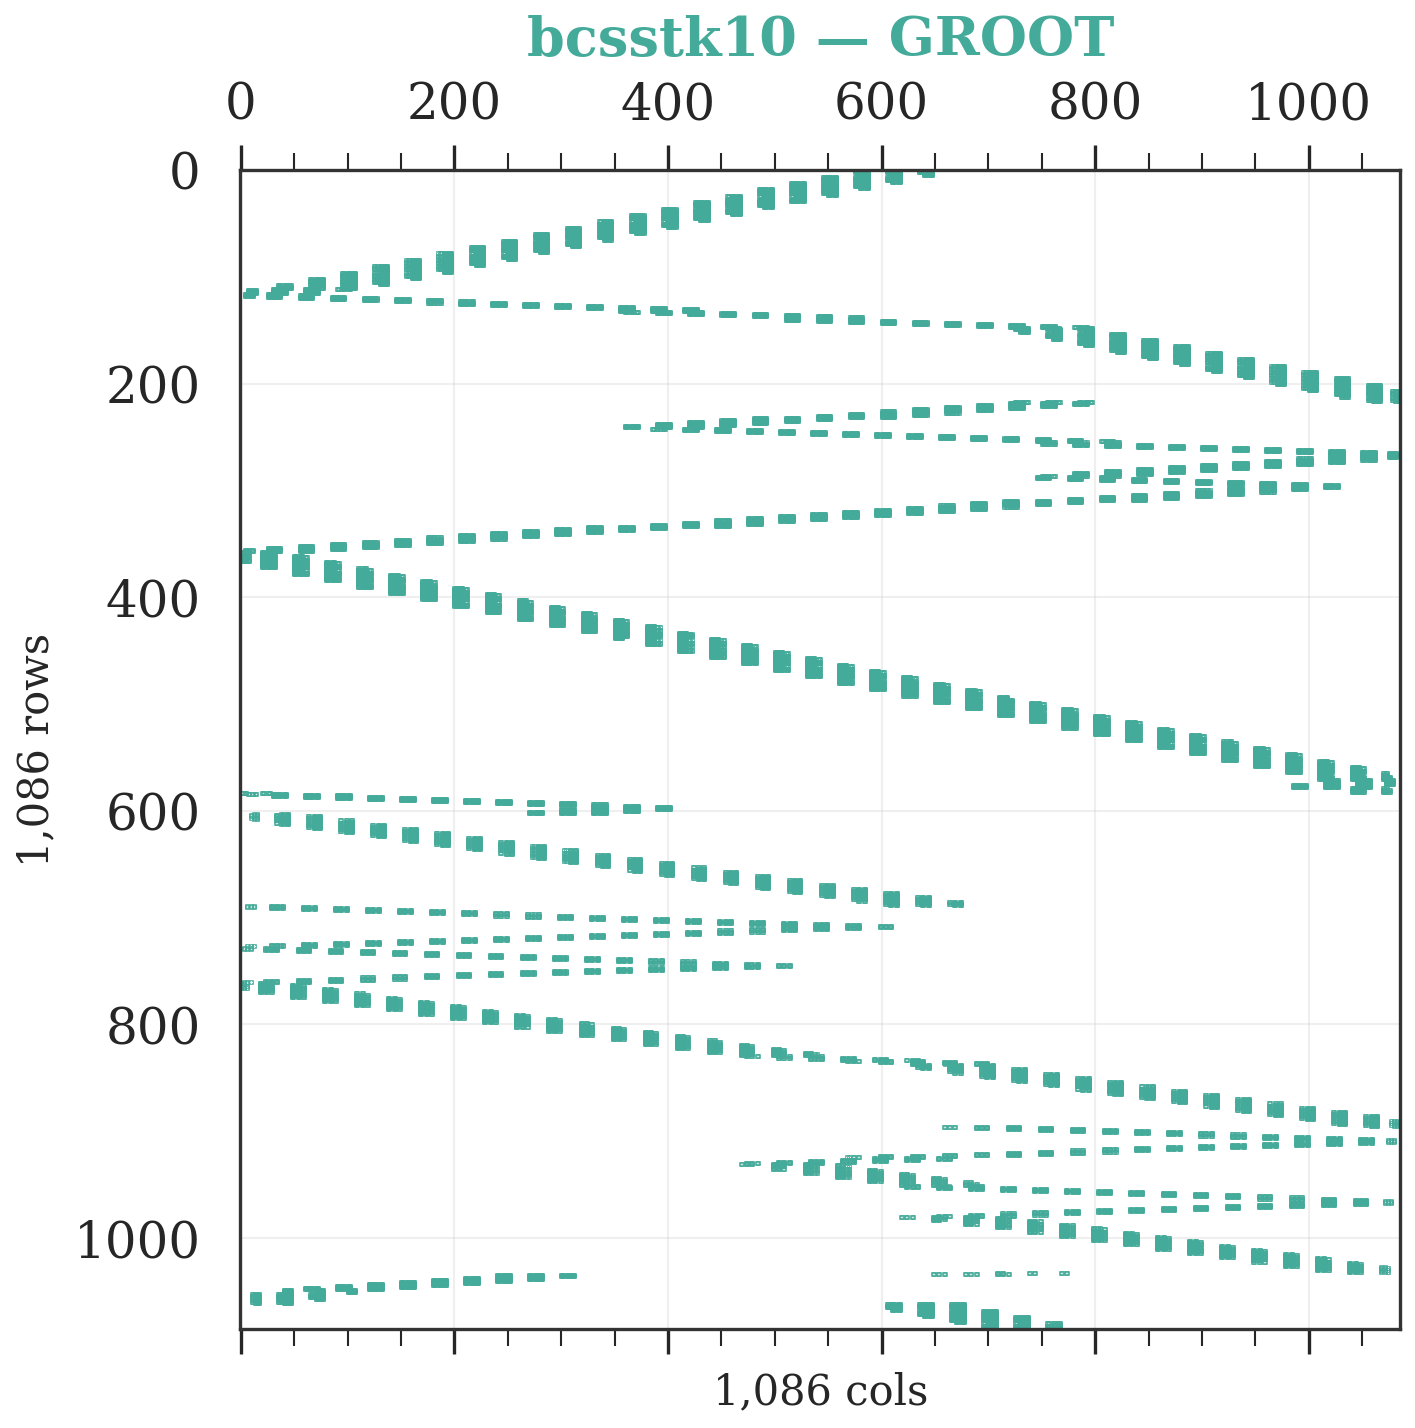
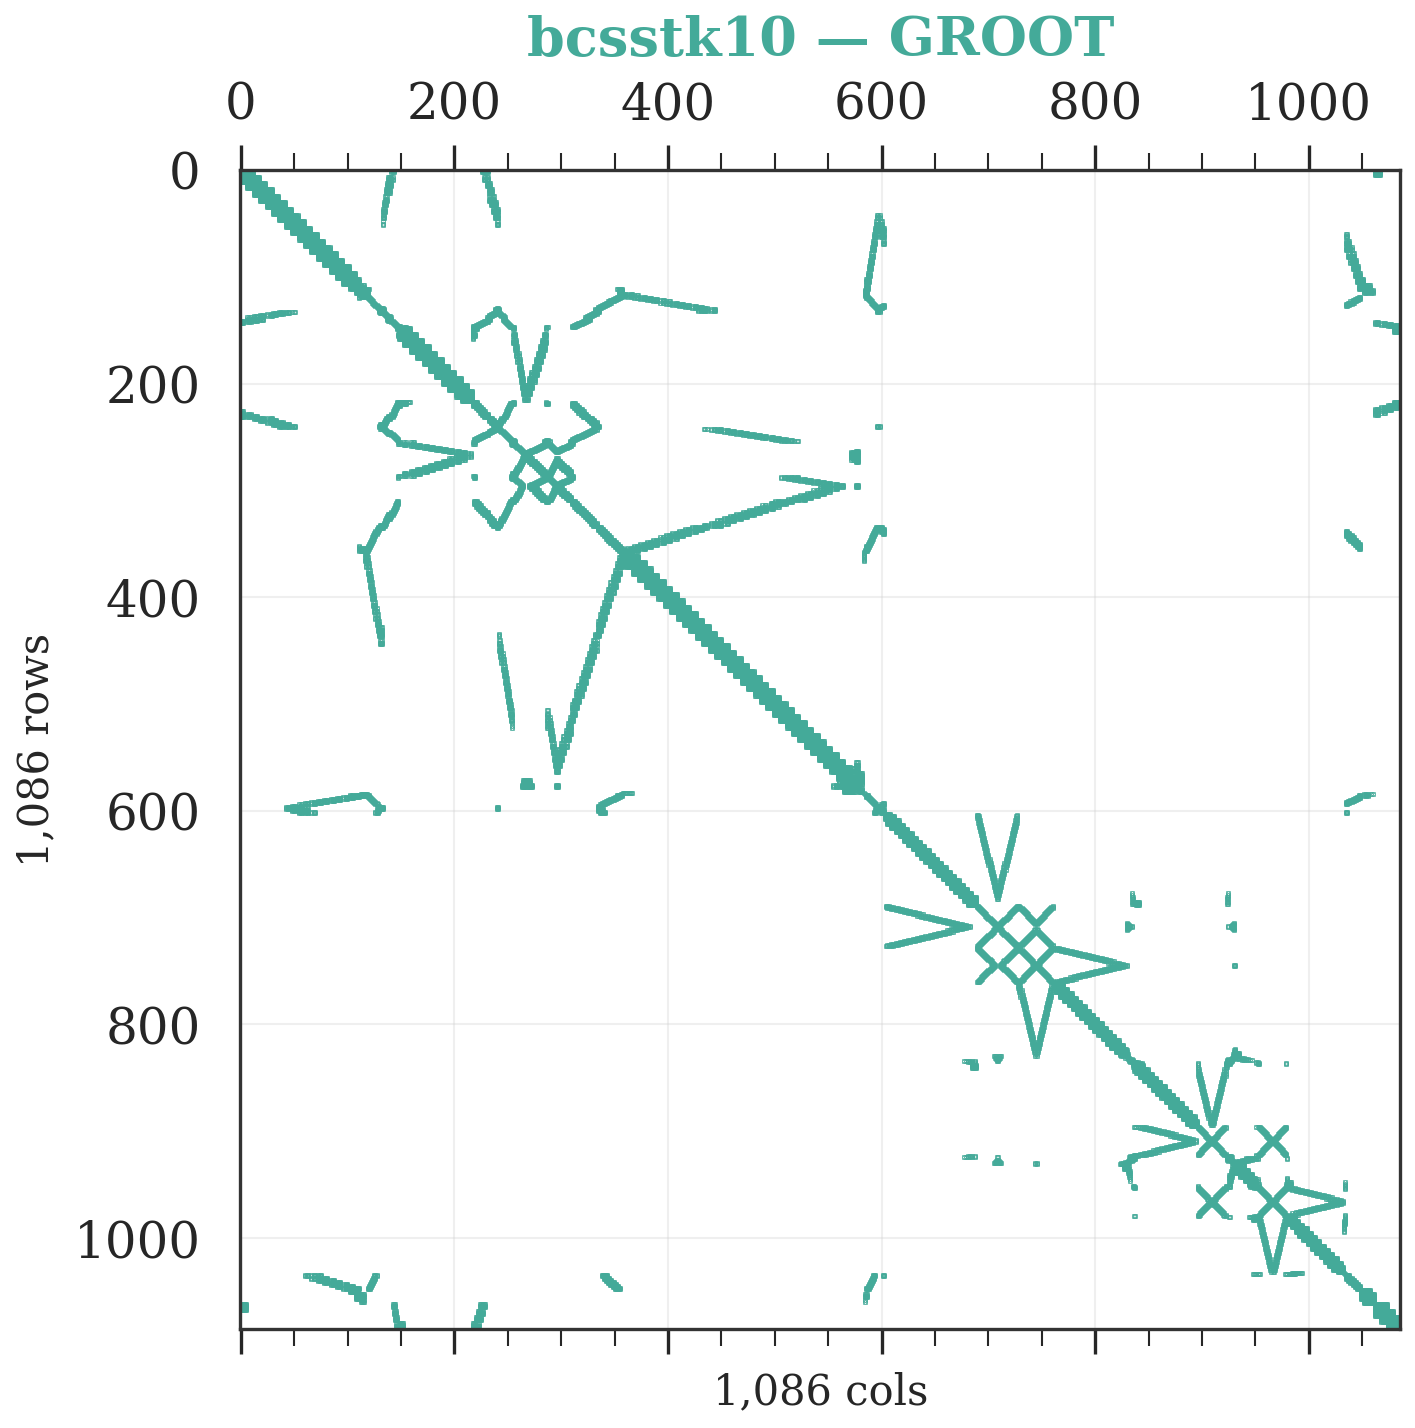
Add graham1 quick spy plots, fix SYMMETRIC perm_type preference
Both spy_plots.py and quick_spy.py now prefer SYMMETRIC when both ROW
and SYMMETRIC entries exist in the analysis CSV for the same pair.

diff --git a/scripts/spy_plots.py b/scripts/spy_plots.py
@@ -178,11 +178,18 @@ def find_permutation_file(perm_dir, matrix_name, algorithm):
 
 
 def get_perm_type_for_algorithm(algorithm, analysis_df, matrix_name):
-    """Get the permutation type for a given algorithm from analysis data."""
-    row = analysis_df[(analysis_df['matrix'] == matrix_name) & 
-                      (analysis_df['perm'] == algorithm)]
-    if not row.empty:
-        return row.iloc[0]['perm_type']
+    """Get the permutation type for a given algorithm from analysis data.
+
+    Prefers SYMMETRIC when both ROW and SYMMETRIC entries exist for the
+    same (matrix, algorithm) pair.
+    """
+    rows = analysis_df[(analysis_df['matrix'] == matrix_name) &
+                       (analysis_df['perm'] == algorithm)]
+    if not rows.empty:
+        perm_types = set(rows['perm_type'].unique())
+        if 'SYMMETRIC' in perm_types:
+            return 'SYMMETRIC'
+        return rows.iloc[0]['perm_type']
     return 'SYMMETRIC'  # Default
 
 

diff --git a/scripts/quick_spy.py b/scripts/quick_spy.py
@@ -68,13 +68,19 @@ def find_matrix(name):
 
 
 def get_perm_type(algorithm, matrix_name):
-    """Look up perm_type from analysis CSV, default to SYMMETRIC."""
+    """Look up perm_type from analysis CSV, default to SYMMETRIC.
+
+    Prefers SYMMETRIC when both ROW and SYMMETRIC entries exist.
+    """
     try:
         import pandas as pd
         df = pd.read_csv(ANALYSIS_CSV)
-        row = df[(df['perm'] == algorithm) & (df['matrix'] == matrix_name)]
-        if not row.empty:
-            return row.iloc[0]['perm_type']
+        rows = df[(df['perm'] == algorithm) & (df['matrix'] == matrix_name)]
+        if not rows.empty:
+            perm_types = set(rows['perm_type'].unique())
+            if 'SYMMETRIC' in perm_types:
+                return 'SYMMETRIC'
+            return rows.iloc[0]['perm_type']
     except Exception:
         pass
     return 'SYMMETRIC'